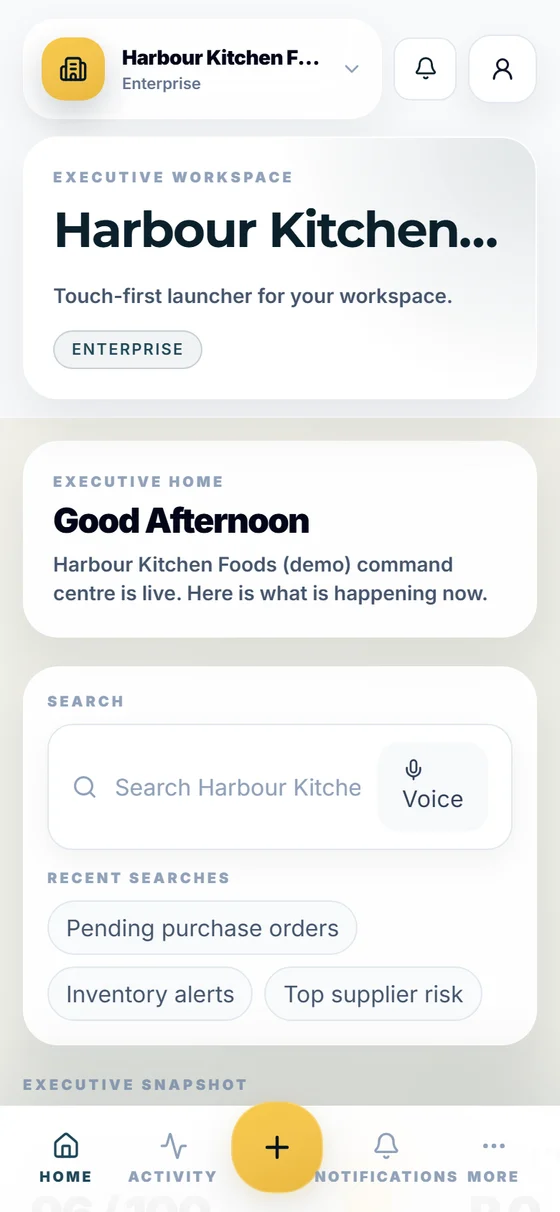
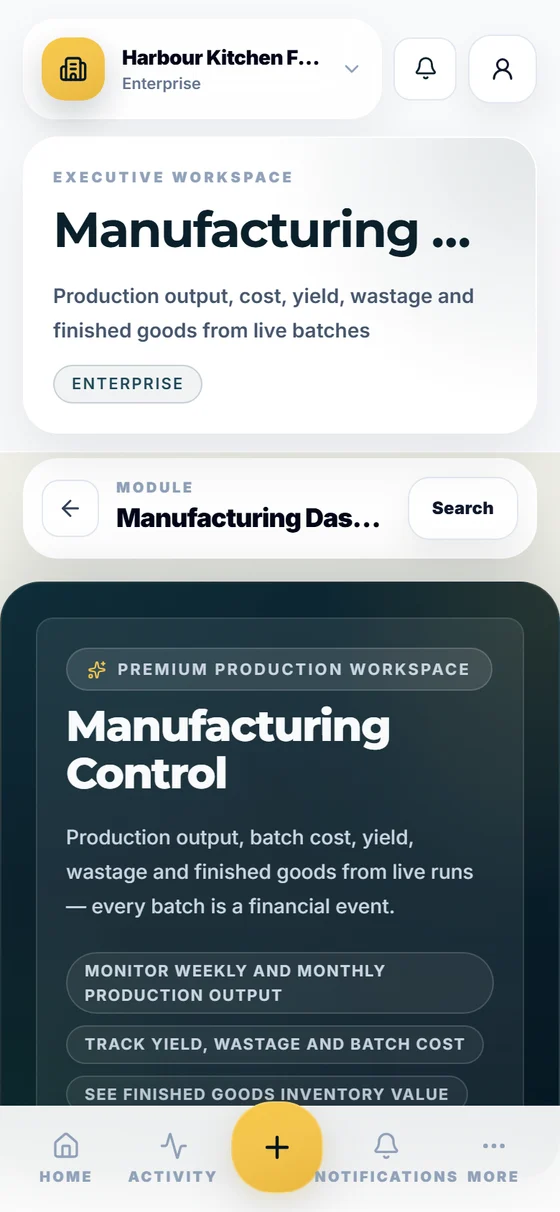
Landing QA: real Manufacturing screen in the phone, industry spacing to reference
- Phone mock-up shows the real VOLORA mobile Manufacturing screen from the
  demo workspace. The app has no screen named Live Production; the production
  planning screens are Multi-Store-gated and were not unlocked.
- Industry tiles sit 10 px higher (heading-to-tiles gap 35 px as in the
  reference) with the closing banner position unchanged.

diff --git a/src/components/volora/VoloraLandingPage.tsx b/src/components/volora/VoloraLandingPage.tsx
@@ -34,7 +34,8 @@ import { VoloraWordmark } from "@/components/vyron-ui/VyronLogo";
  *
  * Photography is extracted from the reference itself
  * (scripts/extract-volora-landing-assets.mjs). The laptop and phone show real
- * VOLORA screens captured from the demo workspace. The four hero KPI figures are
+ * VOLORA screens captured from the demo workspace (dashboard; mobile Manufacturing —
+ * the app has no separate "Live Production" screen). The four hero KPI figures are
  * illustrative marketing figures and are labelled as such.
  */
 
@@ -363,7 +364,7 @@ export default function VoloraLandingPage() {
           <figure className="relative z-20 mx-auto mt-8 w-[46%] max-w-[15rem] lg:absolute lg:left-[calc(var(--u)*84.6)] lg:top-[calc(var(--u)*9.9)] lg:mt-0 lg:w-[calc(var(--u)*13.6)] lg:max-w-none">
             <div className="rounded-[2.2rem] bg-[#0E1114] p-[5%] shadow-[0_24px_50px_rgba(6,23,34,0.35)] ring-1 ring-[#3a4148] lg:rounded-[calc(var(--u)*2.3)]">
               <div className="relative aspect-[390/844] overflow-hidden rounded-[1.7rem] bg-white lg:rounded-[calc(var(--u)*1.8)]">
-                <Image src={`${A}/app-mobile.webp`} alt="The VOLORA mobile workspace (demo workspace)." fill sizes="(min-width: 1024px) 14vw, 45vw" className="object-cover object-top" />
+                <Image src={`${A}/app-mobile.webp`} alt="The VOLORA mobile Manufacturing screen (demo workspace)." fill sizes="(min-width: 1024px) 14vw, 45vw" className="object-cover object-top" />
                 <span className="absolute left-1/2 top-[1.2%] h-[3.2%] w-[34%] -translate-x-1/2 rounded-full bg-[#0E1114]" />
               </div>
             </div>
@@ -374,7 +375,7 @@ export default function VoloraLandingPage() {
         </section>
 
         {/* ════════════════════ REAL SOLUTIONS. REAL RESULTS. ════════════════════ */}
-        <section id="industries" aria-labelledby="industries-title" className="bg-[#F6F8F7] px-5 pb-12 lg:px-[calc(var(--u)*3.3)] lg:pb-[calc(var(--u)*2.6)] lg:pt-[calc(var(--u)*1.2)]">
+        <section id="industries" aria-labelledby="industries-title" className="bg-[#F6F8F7] px-5 pb-12 lg:px-[calc(var(--u)*3.3)] lg:pb-[calc(var(--u)*3.55)] lg:pt-[calc(var(--u)*1.2)]">
           <div className="flex flex-wrap items-end justify-between gap-3 lg:pl-[calc(var(--u)*2.8)] lg:pr-[calc(var(--u)*0.5)]">
             <div>
               <p className="text-[10px] font-semibold uppercase tracking-[0.3em] text-[#163A48] lg:text-[calc(var(--u)*0.82)]">Built for your industry</p>
@@ -386,7 +387,7 @@ export default function VoloraLandingPage() {
               View All Industries <ArrowRight className="h-[1.1em] w-[1.1em]" aria-hidden />
             </Link>
           </div>
-          <ul className="mt-6 grid grid-cols-2 gap-3 sm:grid-cols-4 lg:mt-[calc(var(--u)*1.1)] lg:grid-cols-7 lg:gap-[calc(var(--u)*1.1)]">
+          <ul className="mt-6 grid grid-cols-2 gap-3 sm:grid-cols-4 lg:mt-[calc(var(--u)*0.15)] lg:grid-cols-7 lg:gap-[calc(var(--u)*1.1)]">
             {INDUSTRIES.map(({ slug, label, icon: Icon }) => (
               <li key={slug} className="relative aspect-[123/152] overflow-hidden rounded-xl shadow-[0_10px_24px_rgba(6,23,34,0.18)] lg:rounded-[calc(var(--u)*0.8)]">
                 <Image src={`${A}/industry-${slug}.webp`} alt="" fill sizes="(min-width: 1024px) 13vw, 45vw" className="object-cover" />
